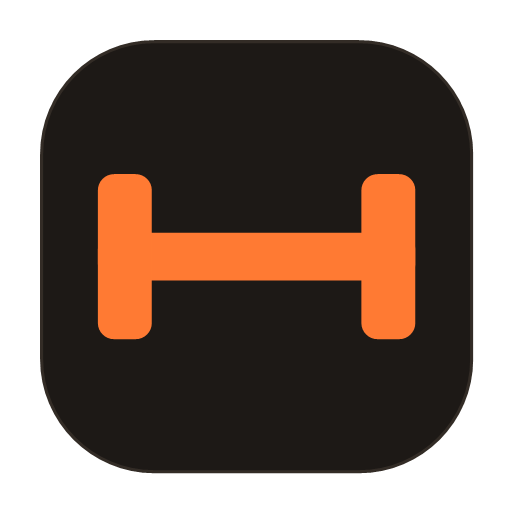
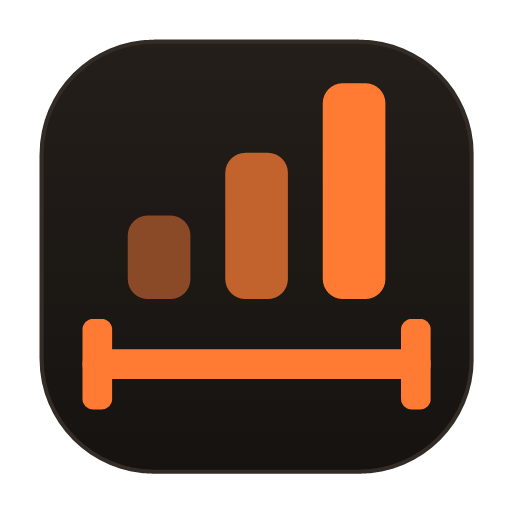
Восстановление запаса для офлайна и новая иконка
Проверка на GitHub Pages вскрыла настоящий пробел. Предварительный кэш
собирается при установке воркера, а установка запускается только когда
меняется сам файл воркера. Содержимое кэша при этом браузер может
вытеснить в любой момент — при нехватке места или чистке данных сайта.
После такого приложение продолжает работать в сети, а офлайн молча
отказывает и сам не чинится: файл воркера прежний, устанавливать нечего.

Теперь страница при запуске просит воркер проверить запас, и недостающее
докачивается. Проверено: обработчик fetch работает и файлы кэширует, но
без этой проверки растерянный запас так и не восстанавливался.

Иконка. Одна гантель говорила «тут про железо», но не говорила, что это
журнал. Теперь над грифом три растущих столбика — приложение про то, что
результат растёт от раза к разу. Ступени яркости, а не один тусклый тон:
на значке в сорок восемь точек слабый цвет сливается с фоном, и вместо
трёх столбиков виден один. Фон с уходом в тёмное вместо плоской заливки.

Changed region(s): [[0.1562, 0.1562, 0.8438, 0.8125], [0.8438, 0.8438, 0.875, 0.875], [0.125, 0.8438, 0.1562, 0.875]]

diff --git a/sw.js b/sw.js
@@ -19,7 +19,7 @@
  * иначе у пользователей останется старый кэш.
  */
 
-const APP_VERSION = 'v17';
+const APP_VERSION = 'v18';
 const CACHE_NAME = `workout-${APP_VERSION}`;
 
 const NETWORK_TIMEOUT = 3000;
@@ -81,18 +81,22 @@ const PRECACHE_URLS = [
 
 // ================== УСТАНОВКА ==================
 
+/**
+ * Поштучно, а не addAll: тот падает целиком из-за одного файла, и тогда
+ * офлайн не работает вообще ничего.
+ */
+async function precache() {
+    const cache = await caches.open(CACHE_NAME);
+
+    await Promise.all(PRECACHE_URLS.map((url) => cache.add(url).catch((e) => {
+        console.warn('[SW] Не удалось закэшировать', url, e);
+    })));
+
+    return (await cache.keys()).length;
+}
+
 self.addEventListener('install', (event) => {
-    event.waitUntil(
-        caches.open(CACHE_NAME)
-            // Поштучно, а не addAll: тот падает целиком из-за одного файла,
-            // и тогда офлайн не работает вообще ничего
-            .then((cache) => Promise.all(
-                PRECACHE_URLS.map((url) => cache.add(url).catch((e) => {
-                    console.warn('[SW] Не удалось закэшировать', url, e);
-                }))
-            ))
-            .then(() => self.skipWaiting())
-    );
+    event.waitUntil(precache().then(() => self.skipWaiting()));
 });
 
 // ================== АКТИВАЦИЯ ==================
@@ -105,6 +109,42 @@ self.addEventListener('activate', (event) => {
             ))
             .then(() => self.clients.claim())
     );
+});
+
+// ================== ВОССТАНОВЛЕНИЕ КЭША ==================
+
+/**
+ * Проверка запаса по просьбе страницы.
+ *
+ * Предварительный кэш собирается один раз — при установке воркера. Но
+ * установка запускается только когда меняется сам файл воркера, а
+ * содержимое кэша браузер может вытеснить в любой момент: при нехватке
+ * места, при чистке данных сайта, по решению самого браузера.
+ *
+ * После такого приложение продолжает работать в сети, а офлайн молча
+ * отказывает — и остаётся отказывать до следующего изменения версии, то
+ * есть неопределённо долго. Поэтому страница при запуске просит проверить
+ * запас, и недостающее докачивается.
+ */
+self.addEventListener('message', (event) => {
+    if (event.data?.type !== 'verify-precache') return;
+
+    event.waitUntil((async () => {
+        const cache = await caches.open(CACHE_NAME);
+        const have = (await cache.keys()).length;
+
+        // Небольшая недостача — обычное дело: часть адресов могла осесть
+        // под другим ключом. Восстанавливаем, только когда запас явно
+        // растерян.
+        if (have >= PRECACHE_URLS.length) {
+            return event.source?.postMessage({ type: 'precache-ok', have });
+        }
+
+        console.warn(`[SW] В кэше ${have} из ${PRECACHE_URLS.length}, докачиваю`);
+
+        const restored = await precache();
+        event.source?.postMessage({ type: 'precache-restored', have, restored });
+    })());
 });
 
 // ================== СТРАТЕГИИ ==================

diff --git a/js/main.js b/js/main.js
@@ -81,6 +81,25 @@ function registerServiceWorker() {
         reloading = true;
         location.reload();
     });
+
+    /*
+     * Просьба проверить запас для офлайна.
+     *
+     * Кэш собирается при установке воркера, а установка запускается только
+     * при изменении его файла. Содержимое же браузер может вытеснить когда
+     * угодно — при нехватке места или чистке данных сайта. После этого
+     * офлайн молча отказывает и сам не чинится: файл воркера прежний,
+     * устанавливать нечего.
+     */
+    navigator.serviceWorker.ready.then((reg) => {
+        reg.active?.postMessage({ type: 'verify-precache' });
+    });
+
+    navigator.serviceWorker.addEventListener('message', (e) => {
+        if (e.data?.type === 'precache-restored') {
+            console.log(`[PWA] Запас для офлайна восстановлен: было ${e.data.have}, стало ${e.data.restored}`);
+        }
+    });
 }
 
 // ================== СТАРТ ==================

diff --git a/js/version.js b/js/version.js
@@ -8,4 +8,4 @@
  * Не путать с APP_VERSION в sw.js: та отвечает за сброс кэша и поднимается
  * при любом изменении файлов, даже невидимом.
  */
-export const VERSION = '2.5.1';
+export const VERSION = '2.6.0';

diff --git a/docs/SPEC.md b/docs/SPEC.md
@@ -1206,6 +1206,10 @@ match /users/{uid}/{document=**} {
 - при изменении состава файлов или стратегий поднимается версия кэша,
   иначе у пользователей остаётся старый кэш;
 - при появлении новой версии показывается предложение обновиться;
+- при запуске страница просит воркер проверить запас и докачать
+  недостающее: кэш собирается при установке, а установка запускается лишь
+  при изменении файла воркера — содержимое же браузер может вытеснить в
+  любой момент, и без проверки офлайн отказал бы молча и надолго;
 - перезагрузка после обновления происходит один раз, а не по кругу.
 
 ---
